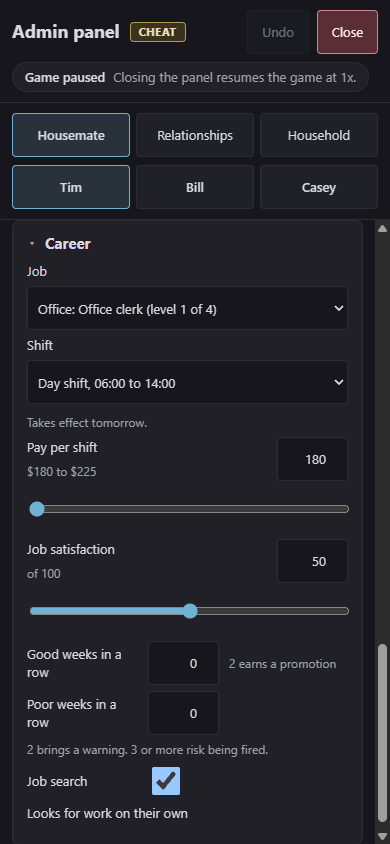
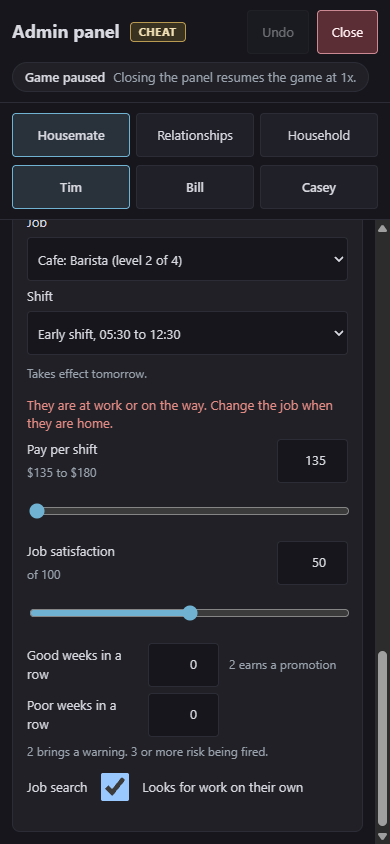
Recapture the review stills and guide pictures after the final review fixes

diff --git a/docs/assets/review-evidence/admin-panel/findings.md b/docs/assets/review-evidence/admin-panel/findings.md
@@ -47,3 +47,21 @@ Fixes for N1 to N3 were played at 390x844 and 1440x900 after the first pass; `la
 ## Open after this pass
 
 - **N4.** Outside the panel, a dev-server reload during the save written on page hide left a 0-byte save slot, and the next load failed. This is a persistence question, tracked separately.
+
+## Review round, 2026-11-21
+
+Played at 1440x900 and 390x844 in a muted browser on the dev server, from commit b616048fc. `layout-check.js` returned no findings for every state below. The check was run as an equivalent condensed copy of the file's logic (comments and fix text removed), loaded once per page. Every still named here was opened at full size.
+
+| Fix | What changed | Where seen |
+|---|---|---|
+| Career refusal | The Career card's status line sits directly under the Job and Shift controls and still scrolls into view. | `desktop-night-refusal-job-change.png`, `phone-night-housemate-career.png` |
+| Repetition rows | Rows that share an action label also name their object, and are numbered when the object names match too. | Unit tests only: a second bookshelf could not be set up in Build mode without playing until both shelves have been used. |
+| New bill row | The row starts on the first free kind and due day, Add bill is disabled for a pair that exists, and the whole row is shut when none is free. | `desktop-night-household-bills.png` (rent on Day 1 offered, as Day 8 holds all four kinds) |
+| Funds note | One bill short keeps its note under its row; two or more share "Funds don't cover these bills." once under the table. | `desktop-night-household-bills.png` |
+| Job search on a phone | The description sits beside its check box. | `phone-night-housemate-career.png` |
+| Close after a skip | A skip that ends with the session refused closes the panel with the same refresh as every other close (test). | Unit test |
+| Build while broken | `begin_build` refuses a broken world as Build failure 17 (Rust test, web decoders and tests). | Rust and vitest |
+| Dead-key tilde | The Dead keydown does nothing and the next key's tilde opens the panel (test only). Italian removed from the layouts named. | Unit test |
+| Capability hint | "how far learned" is now "improvement" (owner wording). | `ui-admin-housemate-desktop.png` in the guide folder |
+
+The guide pictures `ui-admin-household-desktop.png`, `ui-admin-household-mobile.png`, `ui-admin-housemate-desktop.png` and `ui-admin-housemate-mobile.png` were recaptured with their desktop crops, hashes and a new source snapshot.
